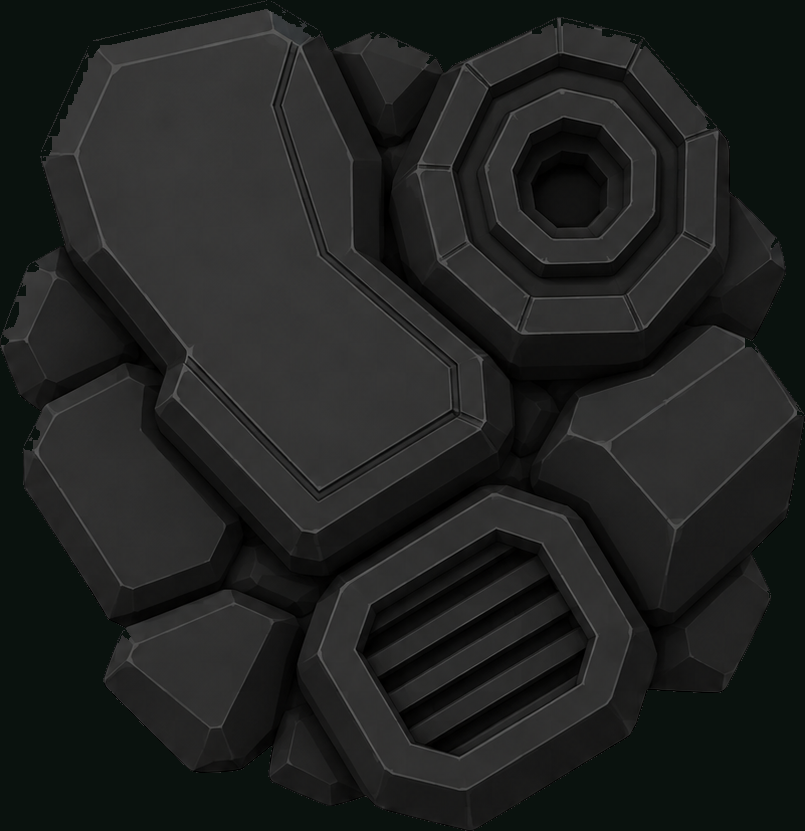
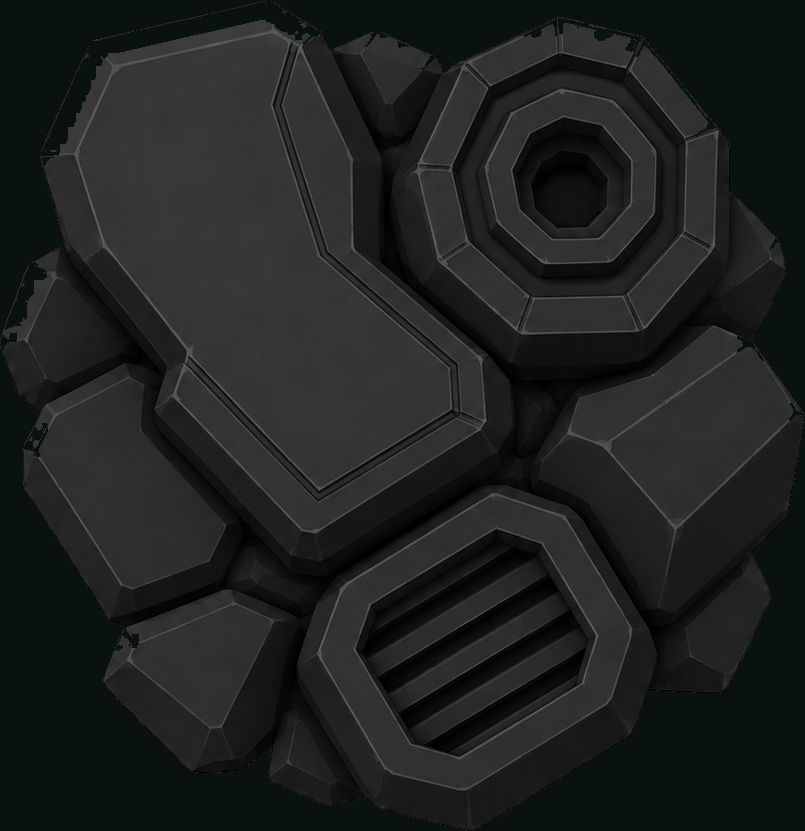
synthesizing

diff --git a/tests/prepare_floor_asset.py b/tests/prepare_floor_asset.py
@@ -8,7 +8,7 @@ from PIL import Image
 
 ROOT = Path(__file__).resolve().parents[1]
 OUTPUT_DIR = ROOT / "tests" / "generated_transparent_assets"
-SOURCE_NAMES = ["floor.png", "floor_2.png", "hideout.png", "enemy_4.png", "debris_1.png"]
+SOURCE_NAMES = ["floor.png", "floor_2.png", "hideout.png", "enemy_4.png", "debris_1.png", "enemy_stationary_1.png"]
 
 LUMA_MIN = 232
 CHROMA_MAX = 18